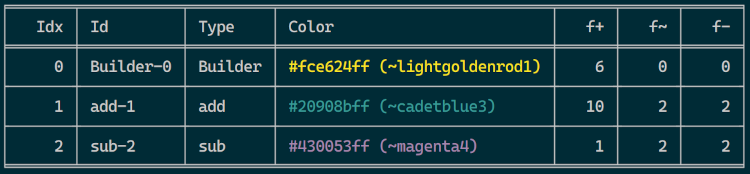
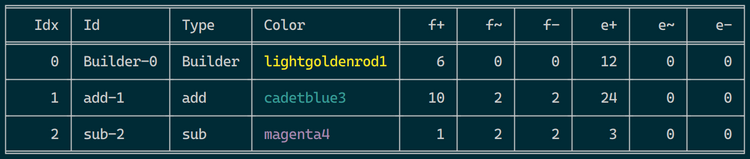
display edges amount as well in info table, add option to print colors in hex format

diff --git a/bumo/builder.py b/bumo/builder.py
@@ -33,6 +33,13 @@ class Builder:
     info_colors = True
     "Set to False to disable terminal colors in the info table."
 
+    info_table_style = "fancy_grid"
+    """The table format used in the info table.
+    See https://github.com/astanin/python-tabulate?tab=readme-ov-file#table-format"""
+
+    info_hex_colors = False
+    "Set to False to show colors in hex format in the info table."
+
     def __init__(self, part: _.Part, color: ColorLike | None=None, debug=False):
         self.object = part
         self.mutations: list[Mutation] = []
@@ -323,7 +330,7 @@ class Builder:
         obj = self.object.chamfer(length, length2, edges, face) # type: ignore
         return self.mutate('chamfer', obj, color, debug)
 
-    def info(self, file=None, style="fancy_grid"):
+    def info(self, file=None):
         """Print the list of mutations to the given file (stdout by default)."""
 
         palette = (
@@ -332,7 +339,7 @@ class Builder:
             else []
         )
 
-        def row(mutation: Mutation) -> tuple[str, str, str, str, str, str, str]:
+        def row(mutation: Mutation) -> tuple:
             color = (
                 palette[mutation.index] if palette and not mutation.color
                 else mutation.color
@@ -343,7 +350,7 @@ class Builder:
             color_start = f"\033[38;2;{ r };{ g };{ b }m"
             color_end = "\033[0m"
 
-            color_str = color_to_str(color or cast_color(self.default_color))
+            color_str = color_to_str(_color, self.info_hex_colors)
             if self.info_colors:
                 color_str = f"{ color_start }{ color_str }{ color_end }"
 
@@ -355,11 +362,16 @@ class Builder:
                 str(len(mutation.faces_added)),
                 str(len(mutation.faces_altered)),
                 str(len(mutation.faces_removed)),
+                str(len(mutation.edges_added)),
+                str(len(mutation.edges_altered)),
+                str(len(mutation.edges_removed)),
             )
 
-        headers = ["Idx", "Id", "Type", "Color", "f+", "f~", "f-"]
+        headers = ["Idx", "Id", "Type", "Color"]
+        headers += ["f+", "f~", "f-", "e+", "e~", "e-"]
         table = [row(mutation) for mutation in self.mutations]
-        print(tabulate(table, headers, tablefmt=style), file=file or stdout)
+        str_table = tabulate(table, headers, tablefmt=self.info_table_style)
+        print(str_table, file=file or stdout)
 
     def debug(self, faces: FaceListLike, color: ColorLike | None=None):
         """Set a face for debugging, so it will appear in the given color while

diff --git a/bumo/colors.py b/bumo/colors.py
@@ -24,14 +24,16 @@ def cast_color(color: ColorLike) -> _.Color:
     return color if isinstance(color, _.Color) else _.Color(color)
 
 
-def color_to_str(color: _.Color) -> str:
+def color_to_str(color: _.Color, as_hex=False) -> str:
     """Return a string representation of the given color."""
     def float_to_hex(n: float):
         return hex(int(n * 255))[2:].rjust(2, '0')
 
-    r, g, b, a = [float_to_hex(c) for c in color.to_tuple()]
-    word = str(color).split("~")[1].strip().lower()
-    return f"#{ r }{ g }{ b }{ a } (~{ word })"
+    if as_hex:
+        r, g, b, a = [float_to_hex(c) for c in color.to_tuple()]
+        return f"#{ r }{ g }{ b }{ a }"
+
+    return str(color).split("~")[1].strip().lower()
 
 
 

diff --git a/README.md b/README.md
@@ -81,9 +81,8 @@ With:
 - **Id**: mutation id;
 - **Type**: operation type;
 - **Color**: faces color for this mutation;
-- **f+**: amount of added faces on this mutation;
-- **f~**: amount of altered faces on this mutation;
-- **f-**: amount of removed faces on this mutation.
+- **f+**, **f~**, **f-**: amount of added/altered/removed faces on this mutation;
+- **e+**, **e~**, **e-**: amount of added/altered/removed edges on this mutation;
 
 ### Moving objects
 
